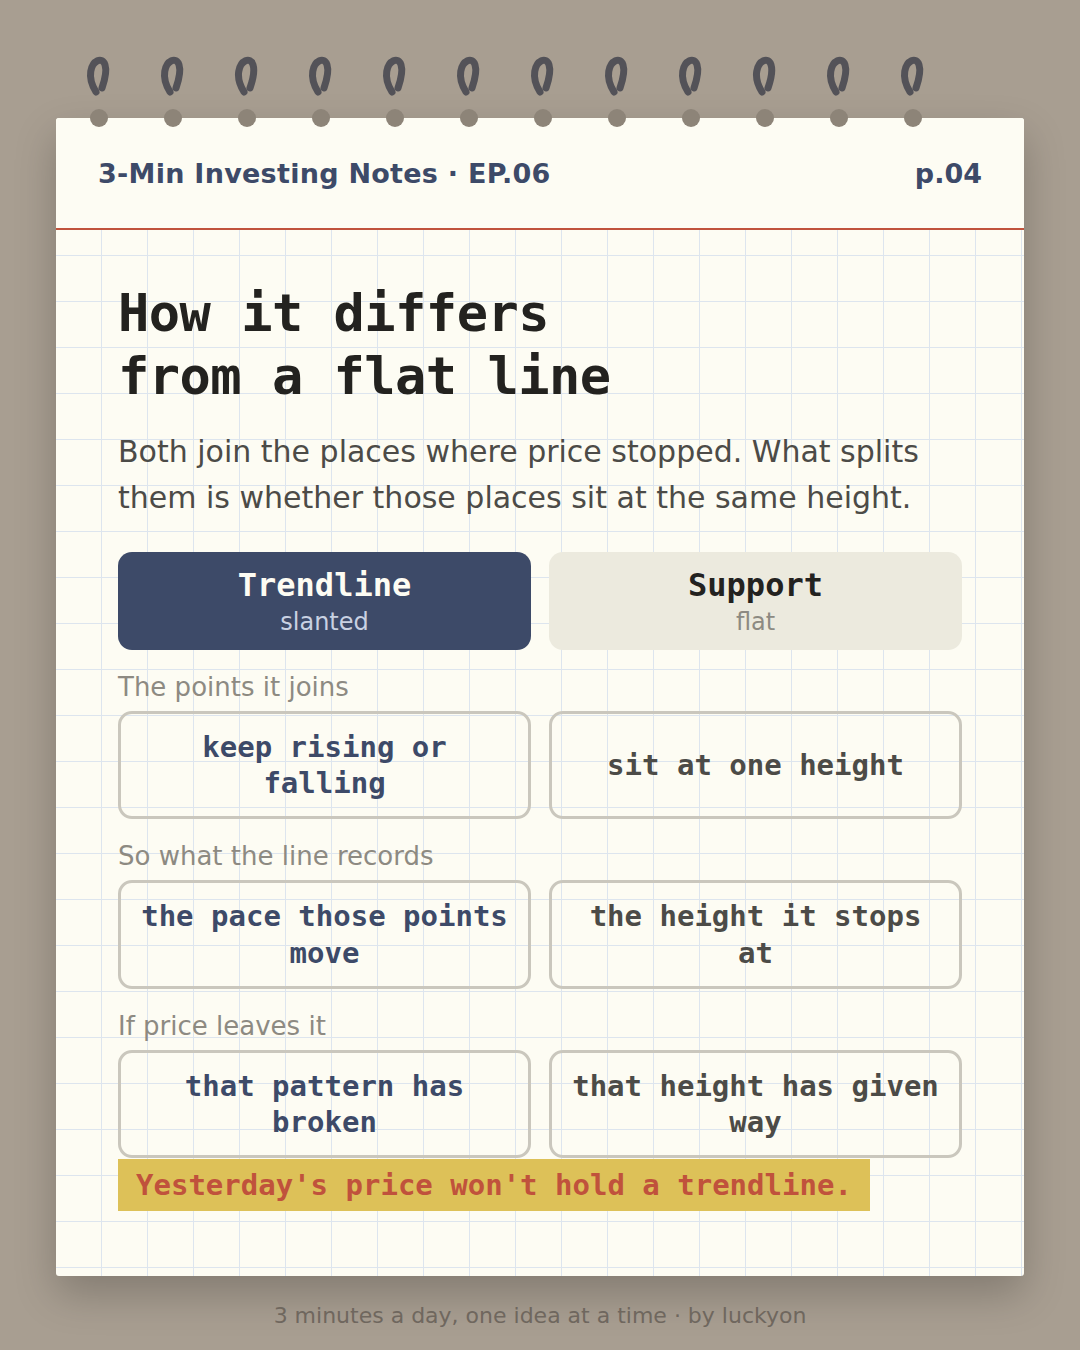
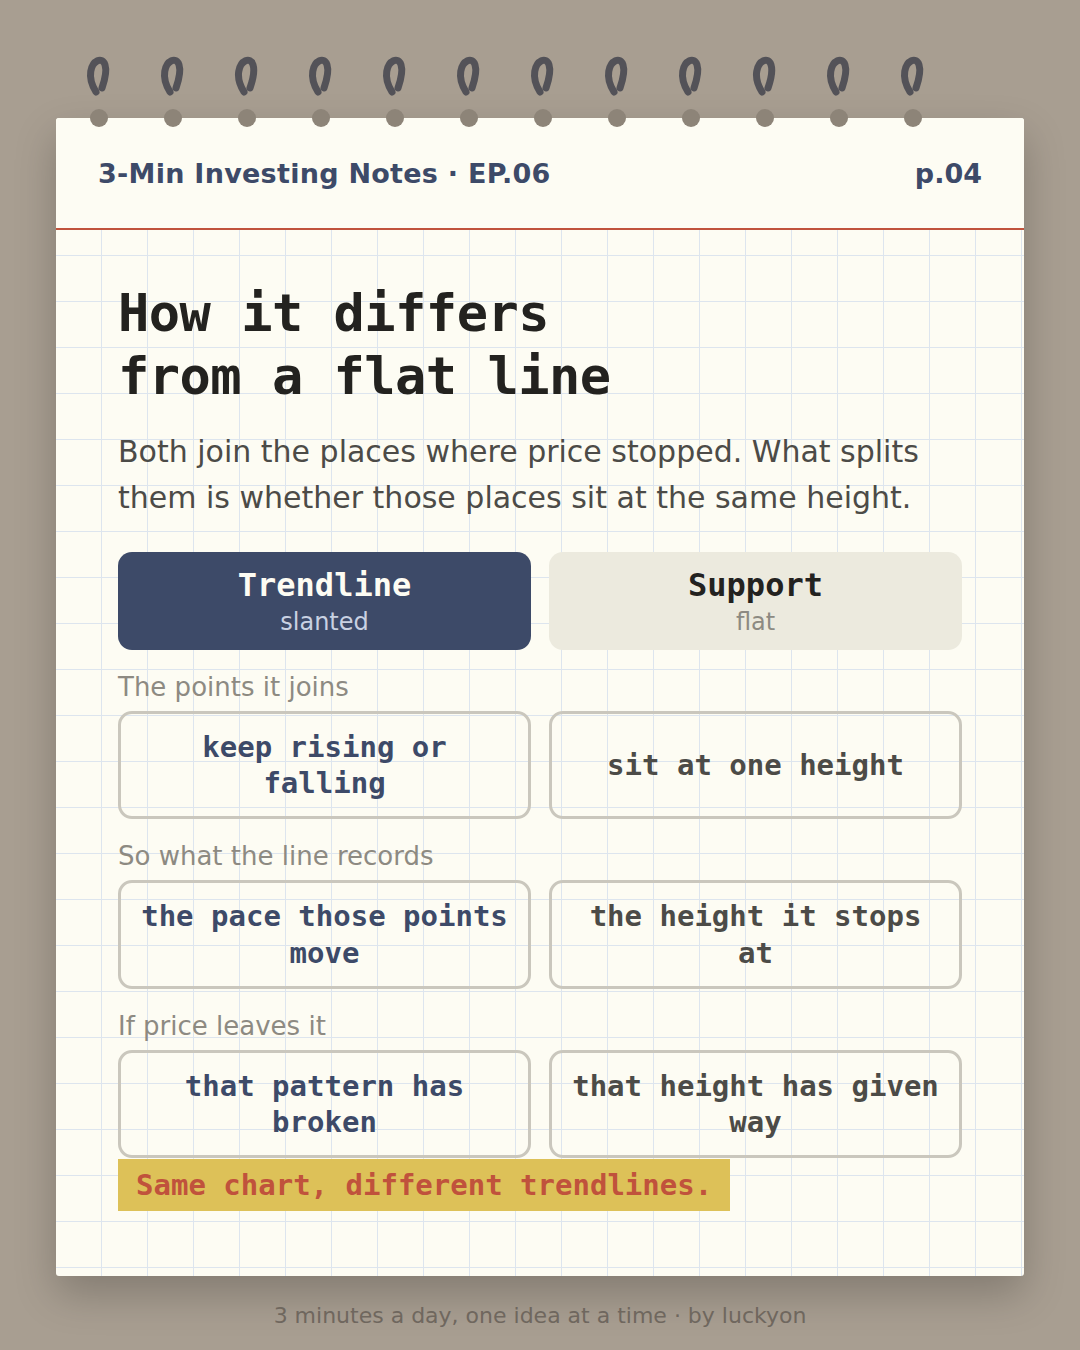
chart-notes: ep06 p.04 마무리 교체 + 용어 노트 _knowledge/추세선.md 신설
사용자 지적 — p.04 마무리(«추세선은 어제 값으로는 지켜지지 않습니다»)가 무슨
말인지, 왜 필요한지 모르겠다. 맞다. 검증이 «마무리가 표를 되풀이한다»고 하자
규칙을 통과시키려고 그럴듯한 한 줄을 지어낸 것이었다.

출처로 확인한 실무 사실로 교체한다 — «같은 차트인데 추세선은 사람마다
다릅니다». 가로 지지·저항은 가격이 멈춘 값이 하나라 누가 봐도 비슷하지만,
추세선은 어느 스윙을 고르냐·몸통이냐 꼬리냐에 따라 갈려 더 주관적이다
(AlgoStorm·TrueData·FTMO). p.07 ①(선부터 긋고 저점을 고른다)과 맞물린다.

그리고 조사한 것을 버리지 않도록 _knowledge/추세선.md 를 만든다. 정의·실무자가
갈리는 지점·도구의 한계·초보가 실제로 틀리는 것·사용자 지적 이력을 담았고,
오늘 받은 지적 세 건이 거기 들어갔다. 인접 회차(채널·박스권·이동평균선)가
백지에서 다시 시작하지 않고 이 위에 쌓는다.

Claude-Session: https://claude.ai/code/session_01DwdXeftpno199BA7Z1hCtm

Changed region(s): [[0.4889, 0.84, 0.825, 0.9022], [0.1222, 0.8711, 0.3056, 0.9022], [0.3361, 0.8711, 0.4583, 0.9022]]

diff --git a/cards/chart-notes/2026-09-06-ep06/preview.html b/cards/chart-notes/2026-09-06-ep06/preview.html
@@ -74,8 +74,8 @@
       <figcaption><b>p.03</b> 원리 카드. 감청색 꺾은선이 오르내리며 오른쪽 위로 올라가고, 그 저점 세 개를 지나는 붉은 점선이 왼쪽 아래에서 오른쪽 위로 비스듬히 그어져 있다. 선이 그 점선에 닿은 자리마다 붉은 동그라미 안에 번호가 매겨져 있다 — 왼쪽부터 ①②③. 본문은 되돌아선 저점 중 점점 높아지는 두 개를 골라 잇고, 그 선을 오른쪽으로 늘려 세 번째로 그 선에서 멈추는지 본다고 설명한다. 아래 범례에 감청색 '주가'와 붉은색 '추세선'. 그 아래 붉은 세로줄이 그어진 문단에 '거꾸로도 똑같습니다. 점점 «낮아지는» 고점 두 개를 이으면 하락 추세선이 되고, 가격은 그 선을 아래에서 만납니다. 잇는 자리가 저점에서 고점으로, 오름이 내림으로 바뀔 뿐입니다.' 노란 형광펜 마무리 문구는 '두 점이면 선, 세 번째부터 «추세»입니다'.</figcaption>
     </figure>
     <figure>
-      <img src="ko/card4.png" alt="비교 카드 '가로선과 무엇이 다른가'. 왼쪽에 감청색으로 칠해진 '추세선 · 기울어진 선', 오른쪽에 회색 '지지선 · 가로선' 머리칸이 있고 아래로 세 줄이 맞대어 있다. '잇는 점들은' — 점점 높아지거나 낮아진다 / 같은 높이다. '그래서 선이 남기는 것은' — 그 점들이 옮겨 가는 «속도» / 멈추는 «높이». '선을 벗어나면' — 지켜 오던 흐름이 깨진 것 / 그 높이가 뚫린 것. 노란 형광펜 마무리 문구는 '추세선은 어제 값으로는 지켜지지 않습니다'." loading="lazy">
-      <figcaption><b>p.04</b> 비교 카드 '가로선과 무엇이 다른가'. 왼쪽에 감청색으로 칠해진 '추세선 · 기울어진 선', 오른쪽에 회색 '지지선 · 가로선' 머리칸이 있고 아래로 세 줄이 맞대어 있다. '잇는 점들은' — 점점 높아지거나 낮아진다 / 같은 높이다. '그래서 선이 남기는 것은' — 그 점들이 옮겨 가는 «속도» / 멈추는 «높이». '선을 벗어나면' — 지켜 오던 흐름이 깨진 것 / 그 높이가 뚫린 것. 노란 형광펜 마무리 문구는 '추세선은 어제 값으로는 지켜지지 않습니다'.</figcaption>
+      <img src="ko/card4.png" alt="비교 카드 '가로선과 무엇이 다른가'. 왼쪽에 감청색으로 칠해진 '추세선 · 기울어진 선', 오른쪽에 회색 '지지선 · 가로선' 머리칸이 있고 아래로 세 줄이 맞대어 있다. '잇는 점들은' — 점점 높아지거나 낮아진다 / 같은 높이다. '그래서 선이 남기는 것은' — 그 점들이 옮겨 가는 «속도» / 멈추는 «높이». '선을 벗어나면' — 지켜 오던 흐름이 깨진 것 / 그 높이가 뚫린 것. 노란 형광펜 마무리 문구는 '같은 차트인데 추세선은 사람마다 다릅니다'." loading="lazy">
+      <figcaption><b>p.04</b> 비교 카드 '가로선과 무엇이 다른가'. 왼쪽에 감청색으로 칠해진 '추세선 · 기울어진 선', 오른쪽에 회색 '지지선 · 가로선' 머리칸이 있고 아래로 세 줄이 맞대어 있다. '잇는 점들은' — 점점 높아지거나 낮아진다 / 같은 높이다. '그래서 선이 남기는 것은' — 그 점들이 옮겨 가는 «속도» / 멈추는 «높이». '선을 벗어나면' — 지켜 오던 흐름이 깨진 것 / 그 높이가 뚫린 것. 노란 형광펜 마무리 문구는 '같은 차트인데 추세선은 사람마다 다릅니다'.</figcaption>
     </figure>
     <figure>
       <img src="ko/card5.png" alt="추세 이탈 카드. 감청색 꺾은선이 붉은 점선 추세선을 따라 올라가며 세 번 그 선에서 멈추고, 멈춘 자리마다 붉은 동그라미 ①②③이 붙어 있다. 그러다 오른쪽에서 선이 꺾여 내려오면서 이번에는 점선 «아래»에서 멈추고, 그 지점에 번호 없는 붉은 동그라미와 '추세 이탈'이라는 라벨이 붙어 있다. 이후 선은 점선 아래에 머문 채 오른쪽으로 이어진다. 본문은 저점들이 지켜 오던 규칙이 여기서 처음 어긋나지만 추세가 끝났다고 확정된 것은 아니며 «흔들린다»는 첫 신호로 본다고 설명한다. 그림 아래 붉은 세로줄이 그어진 문단에 '하락 추세선이면 방향만 반대입니다 — 고점을 이은 선 «위로» 올라간 날이 이탈입니다.' 노란 형광펜 마무리 문구는 '이탈은 결론이 아니라 첫 신호입니다'." loading="lazy">
@@ -111,8 +111,8 @@
       <figcaption><b>p.03</b> Mechanics card. A navy zigzag climbs to the upper right, and a red dashed line runs diagonally through three of its lows. Each point where the price line stops on that dashed line is marked with a red circled number — 1, 2 and 3 from left to right. Body text explains picking two lows that sit at rising heights, joining them, extending the line to the right, and watching for a third stop on it. A legend below shows navy 'Price' and red 'Trendline'. Below the figure, a paragraph with a red rule down its left edge reads 'It works upside down too. Join two highs that sit at falling heights and you get a downtrend line, which price meets from below. Only the points change - highs instead of lows, falling instead of rising.' Yellow highlighter closing: 'Two points, a line. Three, a trend.'</figcaption>
     </figure>
     <figure>
-      <img src="en/card4.png" alt="Comparison card headed 'How it differs from a flat line'. A navy panel labelled 'Trendline · slanted' sits on the left, a grey panel labelled 'Support · flat' on the right, with three rows beneath. 'The points it joins' - keep rising or falling / sit at one height. 'So what the line records' - the pace those points move / the height it stops at. 'If price leaves it' - that pattern has broken / that height has given way. Yellow highlighter closing: "Yesterday's price won't hold a trendline."" loading="lazy">
-      <figcaption><b>p.04</b> Comparison card headed 'How it differs from a flat line'. A navy panel labelled 'Trendline · slanted' sits on the left, a grey panel labelled 'Support · flat' on the right, with three rows beneath. 'The points it joins' - keep rising or falling / sit at one height. 'So what the line records' - the pace those points move / the height it stops at. 'If price leaves it' - that pattern has broken / that height has given way. Yellow highlighter closing: "Yesterday's price won't hold a trendline."</figcaption>
+      <img src="en/card4.png" alt="Comparison card headed 'How it differs from a flat line'. A navy panel labelled 'Trendline · slanted' sits on the left, a grey panel labelled 'Support · flat' on the right, with three rows beneath. 'The points it joins' - keep rising or falling / sit at one height. 'So what the line records' - the pace those points move / the height it stops at. 'If price leaves it' - that pattern has broken / that height has given way. Yellow highlighter closing: 'Same chart, different trendlines.'" loading="lazy">
+      <figcaption><b>p.04</b> Comparison card headed 'How it differs from a flat line'. A navy panel labelled 'Trendline · slanted' sits on the left, a grey panel labelled 'Support · flat' on the right, with three rows beneath. 'The points it joins' - keep rising or falling / sit at one height. 'So what the line records' - the pace those points move / the height it stops at. 'If price leaves it' - that pattern has broken / that height has given way. Yellow highlighter closing: 'Same chart, different trendlines.'</figcaption>
     </figure>
     <figure>
       <img src="en/card5.png" alt="Trend-break card. A navy price line climbs along a red dashed trendline, stopping on it three times; each stop is marked with a red circled number 1, 2 and 3. Then, at the right, the line turns down and this time its low lands underneath the dashed line; that point carries an unnumbered red circle and a 'Trend break' label. The price line continues to the right while staying below the dashed line. Body text explains that this doesn't mean the price is lower than before — it fell short of the pace the earlier lows had set. Below the figure, a paragraph with a red rule down its left edge reads "On a downtrend line it's the mirror image: the break is the day price closes above the line joining the highs." Yellow highlighter closing: 'A break is a first warning, not a verdict.'" loading="lazy">

diff --git a/content/chart-notes/_knowledge/추세선.md b/content/chart-notes/_knowledge/추세선.md
@@ -1,0 +1,58 @@
+# 추세선 (Trendlines)
+
+> **이 파일이 무엇인가.** 회차를 만들 때 조사한 것을 **버리지 않고 쌓는 자리**다. 예전에는 회차마다 백지에서
+> 시작해 매번 기억으로 썼고, 그래서 매번 같은 종류로 틀렸다. 관련 회차(채널·박스권·이동평균선·추세 전환)가
+> 이 파일을 먼저 읽고 시작한다. **정의를 옮겨 적는 곳이 아니라, «실무자가 아는 것»을 모으는 곳이다.**
+
+**다룬 회차**: EP.06 (2026-09-06, 발행 대기) · **인접**: EP.05 지지선과 저항선 / EP.07 갭
+
+---
+
+## 1. 정의 — 여기까지는 이견이 없다
+
+- 단기 변동을 무시하고 방향을 그린 직선. **상승 추세선은 저점을, 하락 추세선은 고점을 잇는다.**
+  («추세분석 = 경향의 바닥을 이은 지지선과 천장을 이은 저항선» — 네이버 지식백과, 매일경제)
+- 두 점이면 그어지고, **세 번째 접점이 «추세»로 만든다**(third-touch validation).
+- 기울기 = 이은 점들이 옮겨 가는 속도. 이건 문자 그대로 맞다.
+
+## 2. 실무자들이 갈리는 지점 — 강의의 알맹이는 여기다
+
+| 갈리는 것 | 한쪽 | 다른 쪽 |
+|---|---|---|
+| 무엇으로 긋나 | **몸통(종가)** — 꼬리 노이즈를 뺀다 | **꼬리(고·저가)** — 실제 거래된 가격이다 |
+| 이탈 판정 | **종가**가 선 밖에서 끝나야 | 일정 % 또는 2일 연속 등 필터 |
+| 몇 번 닿아야 | 2점이면 유효 | **3점부터** 신뢰 |
+
+**그래서 추세선은 가로선보다 주관적이다.** 어느 스윙을 고르냐, 몸통이냐 꼬리냐에 따라 사람마다 다르게
+그어진다. 가로 지지·저항은 «가격이 멈춘 값»이 하나라 누가 봐도 비슷하지만 추세선은 그렇지 않다.
+(AlgoStorm, TrueData, FTMO Academy — EP.06 p.04 마무리·p.07 ① 의 근거)
+
+> 역설: 그 주관성 때문에 **«많은 사람이 똑같이 긋게 되는 선»이 오히려 강하다**. 눈에 띄는 큰 스윙을
+> 잇는 선이 힘을 갖는 이유다. 아직 카드로 만들지 않았다 — 채널·추세 전환 회차에서 쓸 수 있다.
+
+## 3. 이 도구의 한계 — 초보에게 반드시 말해야 하는 것
+
+- **이탈이 확정하는 것**: 이은 점들이 지켜 오던 규칙이 처음 어긋났다는 사실, 그것뿐이다.
+- **이탈이 확정하지 않는 것**: 추세 종료 · 방향 전환 · 하락. 표준 취급은 «추세 구조가 약해진다는
+  이른 신호(early warning)»이며 추가 확인을 요구한다. **되돌림이었다가 추세가 그대로 이어지는 경우가 있다.**
+  (Martin Pring 정리본 sacredtraders.com · GTCFX · FXOpen)
+- 가파른 선일수록 유지 요구가 커서 더 쉽게 깨진다 — 정의에서 바로 따라 나온다.
+
+## 4. 초보가 실제로 틀리는 것
+
+1. 각도를 먼저 정하고 거기 걸리는 저점만 골라 «내가 그린 그림»을 만든다.
+2. 꼬리 한 번 스친 것을 이탈로 본다.
+3. **이탈 = 이제 떨어진다**로 읽는다 ← 두 출처가 공통으로 지적하는 최대 오해.
+
+## 5. 사용자 지적 이력 — 같은 실수를 반복하지 않기 위해
+
+- **2026-09-06 ①** 「하락 추세선이면 점점 낮아지는 것 아닌가. 상승하는 경우만 설명돼 있다.」
+  → 카드 8장에 「저점」 32번 · 「고점」 0번이었다. 캡션에만 한 줄 적는 것은 소용없다 —
+  **저장·재공유되는 것은 카드 이미지다.** 일반 용어를 제목으로 걸면 대칭 경우가 카드 «위»에 있어야 한다.
+- **2026-09-06 ②** 「이탈은 속도가 꺾인 게 아니라 방향이 바뀐 것 아닌가. 기울기는 속도가 맞지만.」
+  → 「기울기 = 속도」 프레임에 이탈까지 밀어 넣은 것이 오류. 그림에 «추세 이탈»이라 이름 붙여 놓고
+  본문이 「추세가 바뀐 건 아니다」라고 한 **자기모순**이었다. 다만 「방향이 바뀌었다」도 과한 확정이라
+  §3 의 경계로 다시 잡았다.
+- **2026-09-06 ③** 「p.04 마무리(«어제 값으로는 지켜지지 않습니다»)가 무슨 말인지, 왜 필요한지 모르겠다.」
+  → 검증 항목(«마무리가 표를 되풀이한다»)을 통과시키려고 그럴듯한 한 줄을 지어낸 것.
+  **규칙을 만족시키려고 문장을 발명하면 반드시 이렇게 된다.** §2 의 주관성으로 교체.
